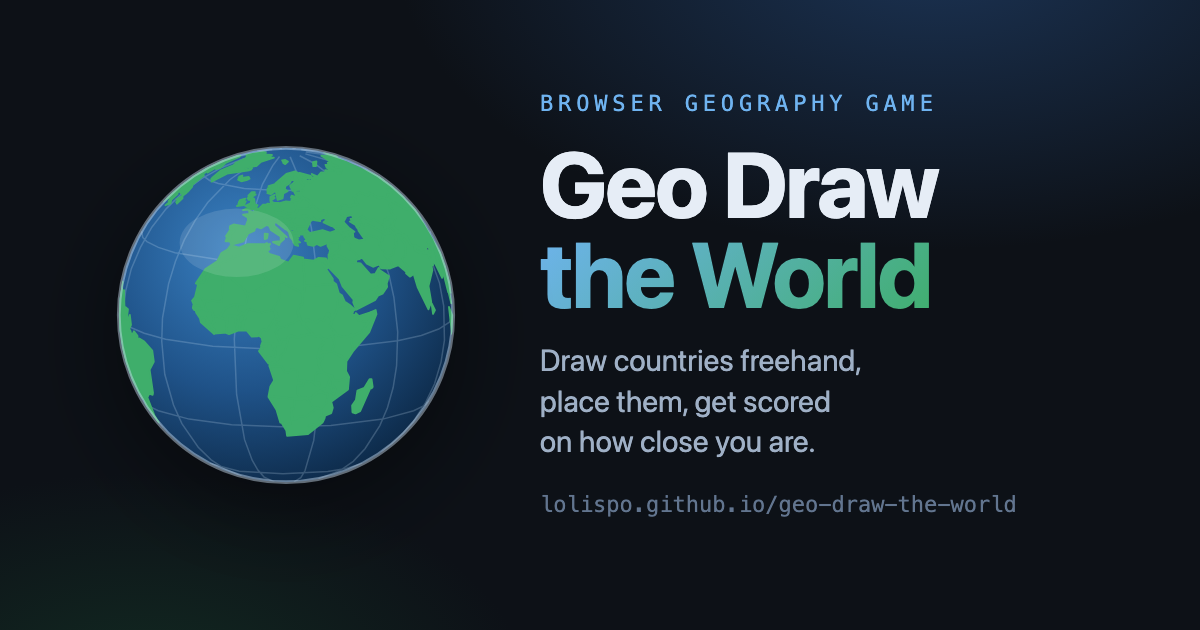
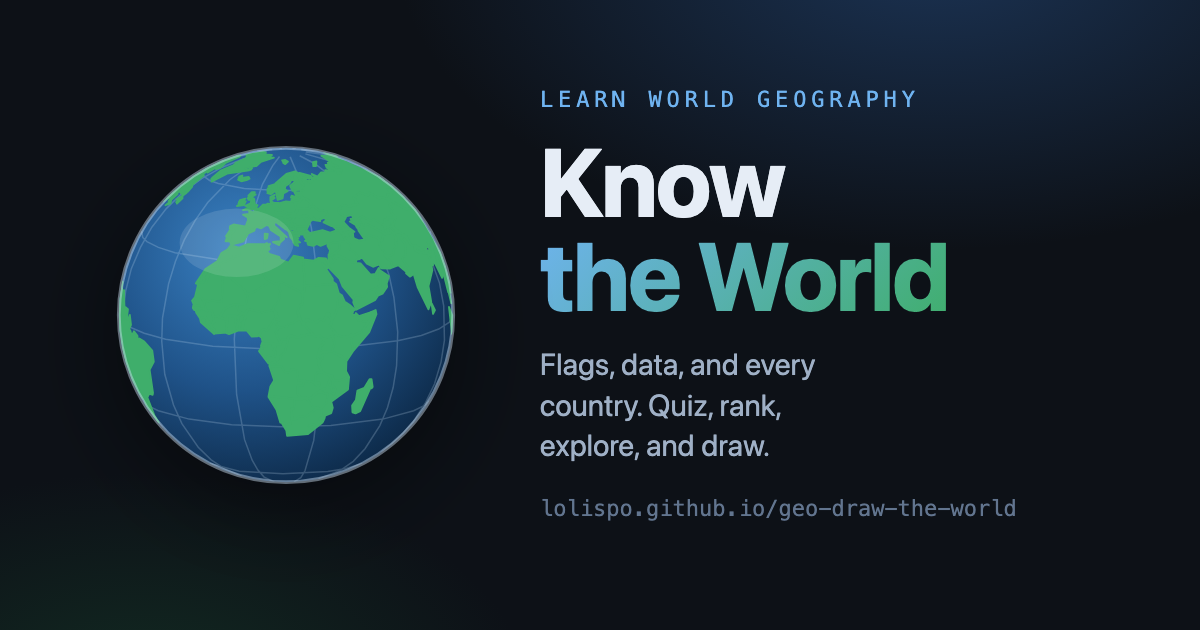
feat: rename app to 'Know the World'; lead menu with flags/data
Reframes the app around learning geography rather than drawing:
- Display name -> 'Know the World' (title, menu H1, meta/OG, README, share text).
  The drawing *mode* keeps its 'Draw the World' label.
- Menu hub reordered: flag games first, data games next, drawing demoted to a
  full-width strip at the bottom. Subtitle updated.
- Regenerated og-image.png to match the new name.

Repo slug and Pages URL intentionally left as geo-draw-the-world for now
(full slug/URL rename tracked in the local TODO).

diff --git a/index.html b/index.html
@@ -3,7 +3,7 @@
 <head>
   <meta charset="UTF-8">
   <meta name="viewport" content="width=device-width, initial-scale=1.0">
-  <title>Geo Draw the World</title>
+  <title>Know the World</title>
   <meta name="description" content="A browser geography game: draw countries freehand, place them on a world map, and get scored on how close you are. Plus flag quizzes, a rank-the-economies mode, and a data explorer.">
   <meta name="theme-color" content="#0d1117">
 
@@ -12,12 +12,12 @@
 
   <!-- Open Graph / social sharing -->
   <meta property="og:type" content="website">
-  <meta property="og:title" content="Geo Draw the World">
+  <meta property="og:title" content="Know the World">
   <meta property="og:description" content="Draw countries freehand, place them on a world map, and get scored on how close you are. Plus flag quizzes, a rank-the-economies mode, and a data explorer.">
   <meta property="og:url" content="https://lolispo.github.io/geo-draw-the-world/">
   <meta property="og:image" content="https://lolispo.github.io/geo-draw-the-world/og-image.png">
   <meta name="twitter:card" content="summary_large_image">
-  <meta name="twitter:title" content="Geo Draw the World">
+  <meta name="twitter:title" content="Know the World">
   <meta name="twitter:description" content="Draw countries freehand, place them on a world map, and get scored on how close you are.">
   <meta name="twitter:image" content="https://lolispo.github.io/geo-draw-the-world/og-image.png">
 
@@ -34,34 +34,34 @@
   <!-- MENU -->
   <div id="screen-menu" class="screen active">
     <div class="menu-content">
-      <h1 class="title-glow">Geo Draw<br><span>the World</span></h1>
-      <p class="subtitle">Learn world geography — draw it, rank it, explore it.</p>
+      <h1 class="title-glow">Know<br><span>the World</span></h1>
+      <p class="subtitle">Learn world geography — flags, data, and every country.</p>
 
       <div class="menu-hub">
-        <button id="btn-activity-draw" class="btn hub-card hub-draw">
-          <span class="hub-icon">✏️</span>
-          <span class="hub-label">Draw the World</span>
-          <span class="hub-desc">Draw shapes from memory & place them on the map</span>
+        <button id="btn-activity-flags" class="btn hub-card hub-flags">
+          <span class="hub-icon">🏳️</span>
+          <span class="hub-label">Flag Color Quiz</span>
+          <span class="hub-desc">Guess the missing flag color</span>
+        </button>
+        <button id="btn-activity-flag-picker" class="btn hub-card hub-flags">
+          <span class="hub-icon">🎨</span>
+          <span class="hub-label">Flag Color Picker</span>
+          <span class="hub-desc">Match the missing flag color as precisely as you can</span>
         </button>
         <button id="btn-activity-rank" class="btn hub-card hub-rank">
           <span class="hub-icon">🏦</span>
           <span class="hub-label">Rank the World</span>
           <span class="hub-desc">Place countries on a line by the numbers</span>
         </button>
-        <button id="btn-activity-flags" class="btn hub-card hub-flags">
-          <span class="hub-icon">🏳️</span>
-          <span class="hub-label">Flag Color Quiz</span>
-          <span class="hub-desc">Guess the missing flag color</span>
-        </button>
         <button id="btn-activity-explore" class="btn hub-card hub-explore">
           <span class="hub-icon">📊</span>
           <span class="hub-label">Data Explorer</span>
           <span class="hub-desc">Browse countries ranked by any dataset</span>
         </button>
-        <button id="btn-activity-flag-picker" class="btn hub-card hub-wide">
-          <span class="hub-icon">🎨</span>
-          <span class="hub-label">Flag Color Picker</span>
-          <span class="hub-desc">Match the missing flag color as precisely as you can</span>
+        <button id="btn-activity-draw" class="btn hub-card hub-draw hub-wide">
+          <span class="hub-icon">✏️</span>
+          <span class="hub-label">Draw the World</span>
+          <span class="hub-desc">Draw shapes from memory & place them on the map</span>
         </button>
       </div>
 

diff --git a/js/main.js b/js/main.js
@@ -1238,7 +1238,7 @@ class Game {
       'streak': 'Streak',
     }[this.gameMode] || this.gameMode.replace('countries-', '').replace(/-/g, ' ');
 
-    let lines = [`Geo Draw the World — ${modeName}`];
+    let lines = [`Know the World — ${modeName}`];
 
     if (this.gameMode === 'streak') {
       lines.push(`Streak: ${this._streakCount}`);

diff --git a/README.md b/README.md
@@ -1,8 +1,8 @@
 <p align="center">
-  <img src="assets/globe.svg" width="120" height="120" alt="Geo Draw the World logo">
+  <img src="assets/globe.svg" width="120" height="120" alt="Know the World logo">
 </p>
 
-# Geo Draw the World
+# Know the World
 
 A browser geography game: draw countries freehand, place them on a world map, and
 get scored on how close your shape and position are to the real thing. Plus flag